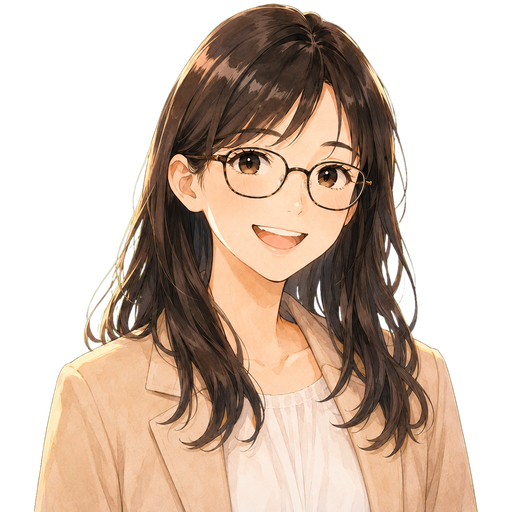
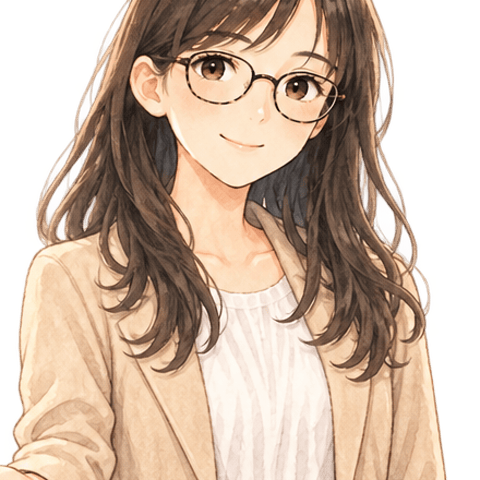
導入シーンを作り直し、麗夏さんの水彩版を共通アセットに反映
■ 麗夏さんの絵（assets/chara/）
- 立ち絵3枚を水彩絵本調の新版に差し替え。動物の先生たちと絵柄がそろった
  reika.png / reika_point.png / reika_joy.png
- 圧縮：1872/1947/1781KB → 427/447/405KB
- reika_icon.png は届いた版に黒い背景が残り、髪の輪郭に赤と黄色の
  点が出ていたため、立ち絵の顔を正方形に切り出して作り直した
  （2343KB → 133KB）
- 麗夏さんは全編共通のナビなので assets/chara/ に置いた。
  Google編・Claude編・初心者教室の絵も、これで水彩版に変わる

■ 導入シーン（data/intro.js）を全面改訂
- 麗夏さんは冒頭2言だけ。あとはチャッピーが最後まで付き添う
  （ChatGPT編は「チャッピーとのともだち編」のため）
- ともだちカードを、ここで渡すようにした
  第1話のオープニングと同じ説明を3回聞かされる状態だったのを解消
- 最後に「AIはまちがえる。ボクもまちがえる」を置いて、
  64日ぶんの伏線にした。ここで打ち明ける顔に切り替わる
- 6カット → 12カット
- stage名の重言を修正（「ChatGPT編：ChatGPT64」→「ChatGPT編」）
  画面左上が「はじめに — ChatGPT編：ChatGPT64」と出ていた
- 名札が2行に折れていたので、肩書きを「豆柴（ChatGPT）」に短くした

■ intro.html
- 語り（ナレーション）に対応。だれの絵も名前も出さず、斜体で出す
- 存在しない reika_welcome.png を指していた問題は、新しい脚本で
  使う姿勢を reika.png と reika_point.png に限ったため解消

Claude-Session: https://claude.ai/code/session_01A1ujtGkiS1bHVu2Q3yPt4v

diff --git a/stages/chatgpt64/data/intro.js b/stages/chatgpt64/data/intro.js
@@ -1,52 +1,73 @@
 /* ============================================================
-   📝 α ChatGPT64 導入シーン（ワールド初回に自動再生・スキップ可）
+   📖 α ChatGPT64 導入シーン（ワールド初回に自動再生・スキップ可）
    ★編集はこのファイルの文章だけでOK
-   ・世界観：現代日本のAIセミナールーム。さくさく短め
-   ・who:'nav'=案内役（麗夏 or サトル）/ who:'boss'=チャッピー
+   ・世界観：現代日本のAIセミナールーム
+   ・2026-09-06 改訂：チャッピーとの「ともだち編」に寄せて作り直した
+       - 麗夏は冒頭2言だけ。あとはチャッピーが最後まで付き添う
+       - ともだちカードを、ここで渡す（第1話OPと重複していたため）
+       - 最後に「AIはまちがえる」を1つ置いて、64日ぶんの伏線にする
+   ・who:'nar'=語り / 'nav'=案内役（麗夏 or サトル）/ 'boss'=チャッピー
+   ・boss の img を書くと、その絵に差し替わる（A_talk.png＝打ち明ける顔）
    ============================================================ */
 window.MCQ_INTRO = {
-  stage: "ChatGPT編：ChatGPT64",
+  stage: "ChatGPT編",
   lang: "ja",
   boss: {
     name: "チャッピー",
-    title: "おしゃべりルームの先生｜豆柴（ChatGPT）",
+    title: "豆柴（ChatGPT）",
     img: "chara/A.png",
     color: "#10a37f"
   },
 
   script: [
+    { who:'nar',  id:'n1' },
     { who:'nav',  pose:'welcome', id:'g1' },
     { who:'nav',  pose:'point',   id:'g2' },
-    { who:'nav',  pose:'welcome', id:'g3' },
     { who:'boss', id:'b1' },
     { who:'boss', id:'b2' },
-    { who:'boss', id:'b3' }
+    { who:'boss', id:'b3' },
+    { who:'boss', id:'b4' },
+    { who:'nar',  id:'n2' },
+    { who:'boss', img:'chara/A_talk.png', id:'b5' },
+    { who:'boss', img:'chara/A_talk.png', id:'b6' },
+    { who:'boss', img:'chara/A_talk.png', id:'b7' },
+    { who:'boss', img:'chara/A.png',      id:'b8' }
   ],
+
+  narLines: {
+    ja: {
+      n1: '駅前の小さなビルの3階。窓に、あかりがついている。',
+      n2: 'カードを受け取った。8つのマスは、まだ、ぜんぶ白い。'
+    }
+  },
 
   navLines: {
     ja: {
       reika: {
-        g1: 'ようこそ、<b>ChatGPT編</b>へ。ここは駅前の小さな<b>AIセミナールーム</b>。今日から8つのルームで、世界でいちばん使われているAI——<b>ChatGPT</b>を学ぶのよ。',
-        g2: 'このセミナー、先生がちょっと変わっていてね。<b>ChatGPTの機能たちが、動物の姿</b>で教えてくれるの。名前を覚えるだけで機能の名前も覚えられる、というわけ。',
-        g3: '最初の教室は<b>おしゃべりルーム</b>。……あら、もう先生が来てるわ。'
+        g1: 'ようこそ。ここから先の64日は、<b>あなたとチャッピー</b>の時間よ。私は、ときどき顔を出すくらいね。',
+        g2: '……ほら、もう来たわ。'
       },
       satoru: {
-        g1: 'ようこそ、<b>ChatGPT編</b>へ。ここは駅前の小さな<b>AIセミナールーム</b>です。今日から8つのルームで、世界でいちばん使われているAI——<b>ChatGPT</b>を学びます。',
-        g2: 'このセミナー、先生がちょっと変わっていまして。<b>ChatGPTの機能たちが、動物の姿</b>で教えてくれるんです。名前を覚えるだけで機能の名前も覚えられる、というわけです。',
-        g3: '最初の教室は<b>おしゃべりルーム</b>。……お、もう先生が来ていますね。'
+        g1: 'ようこそ。ここから先の64日は、<b>あなたとチャッピー</b>の時間です。僕は、ときどき顔を出すくらいで。',
+        g2: '……ほら、もう来ましたね。'
       }
     }
   },
 
   bossLines: {
     ja: {
-      b1: 'いらっしゃいだワン！この教室で覚えるのは、AIへの<b>話しかけ方</b>。むずかしい呪文はいらないよ、ふつうの言葉でだいじょうぶ。',
-      b2: '8つのルームをぜんぶ回ったら、きみのお仕事は<b>AIといっしょに回る</b>ようになる。最後まで来てくれたら……ボクの<b>親友の証</b>をあげるワン。',
-      b3: 'じゃあ最初のクエスト——<b>アカウントづくりと3つのモード</b>からいってみよう！こっちだワン！'
+      b1: 'わあ、来てくれたんだ！ボク、<b>チャッピー</b>。この教室の先生だワン。',
+      b2: '（カードを差し出して）これ、<b>「ともだちカード」</b>。',
+      b3: '8つの部屋をまわって、先生から<b>スタンプを1個ずつ</b>もらうの。',
+      b4: 'ぜんぶそろったら……ボクの<b>「親友の証」</b>をあげる。約束だワン。',
+      b5: '……ひとつだけ、先に言っておくワン。',
+      b6: 'AIは、まちがえる。<b>ボクも、まちがえる。</b>',
+      b7: 'だからきみには、「それ、ちがうよ」って言える人になってほしいんだ。',
+      b8: '……なんて、むずかしい話はまたね！さ、1つ目の部屋にいこうワン！'
     }
   },
 
-  startLabel: '💬 最初のクエスト（A1）を始める',
-  startHref:  'quest.html?id=A1',
+  startLabel: '🐕 最初のクエスト（A1）を始める',
+  startHref: 'quest.html?id=A1',
   boardLabel: '🗺 まずはボード（全体）を見る'
 };

diff --git a/stages/chatgpt64/intro.html b/stages/chatgpt64/intro.html
@@ -83,6 +83,10 @@ body{background:#14101c;color:var(--ink);font-family:"Yu Gothic","Hiragino Sans"
   // セリフ解決：キャラ別×言語別のテキストリストから引く（旧 b.text はそのまま使う）
   function resolveText(b){
     if(b.text) return b.text;                              // 旧形式フォールバック
+    if(b.who==='nar'){                                     // ナレーション（語り）
+      var nr = (I.narLines && (I.narLines[LANG] || I.narLines.ja)) || {};
+      return nr[b.id] || '';
+    }
     if(b.who==='boss'){
       var bl = (I.bossLines && (I.bossLines[LANG] || I.bossLines.ja)) || {};
       return bl[b.id] || '';
@@ -123,10 +127,20 @@ body{background:#14101c;color:var(--ink);font-family:"Yu Gothic","Hiragino Sans"
     i = n;
     var b = STEPS[i]; if(!b){ finish(); return; }
     var sp = speaker(b.who);
-    setFace(b, sp);
-    $('who').textContent = sp.name + (b.who==='boss' && I.boss.title ? '｜'+I.boss.title : '');
-    $('who').style.borderColor = sp.color;
-    $('dlg').style.borderColor = sp.color;
+    if(b.who==='nar'){
+      /* 語りのときは、だれの絵も名前も出さない */
+      $('faceImg').style.display='none';
+      $('who').style.display='none';
+      $('dlg').style.borderColor = '#8a7fa8';
+      $('tx').style.fontStyle = 'italic';
+    } else {
+      $('who').style.display='';
+      $('tx').style.fontStyle = '';
+      setFace(b, sp);
+      $('who').textContent = sp.name + (b.who==='boss' && I.boss.title ? '｜'+I.boss.title : '');
+      $('who').style.borderColor = sp.color;
+      $('dlg').style.borderColor = sp.color;
+    }
     // ドット
     var h=''; for(var k=0;k<STEPS.length;k++) h+='<span class="'+(k<=i?'on':'')+'"></span>';
     $('dots').innerHTML = h;
